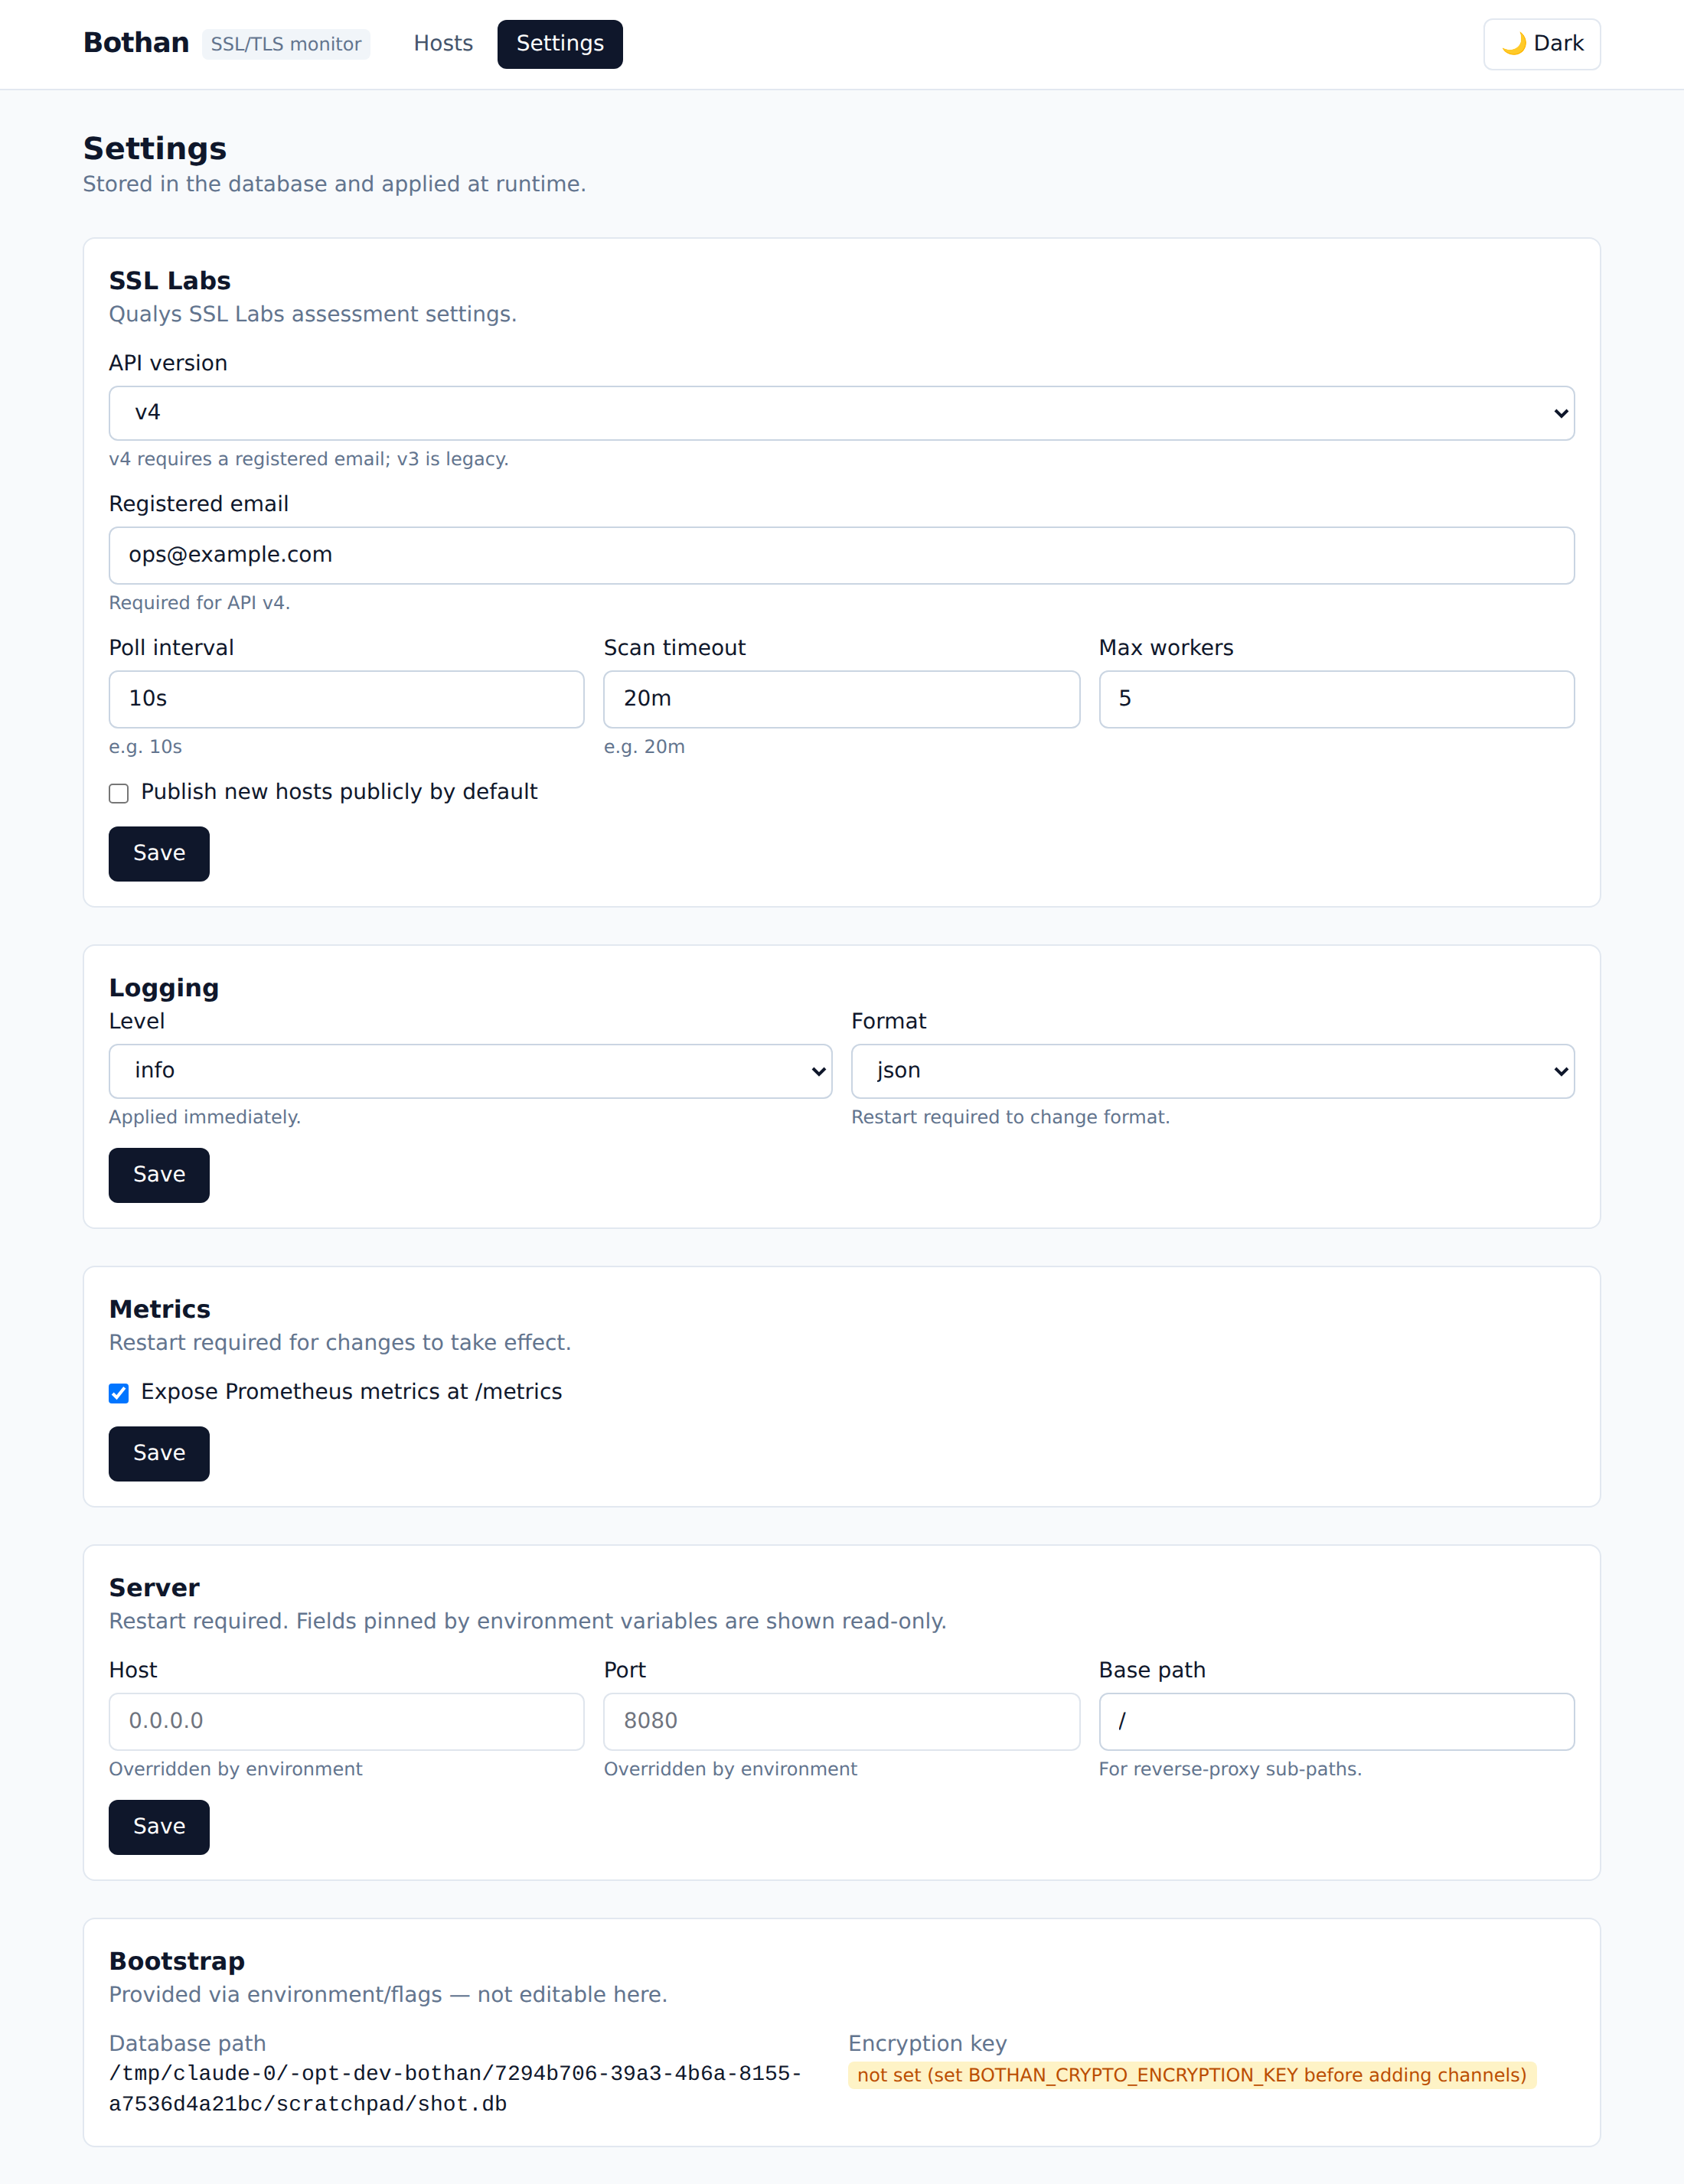
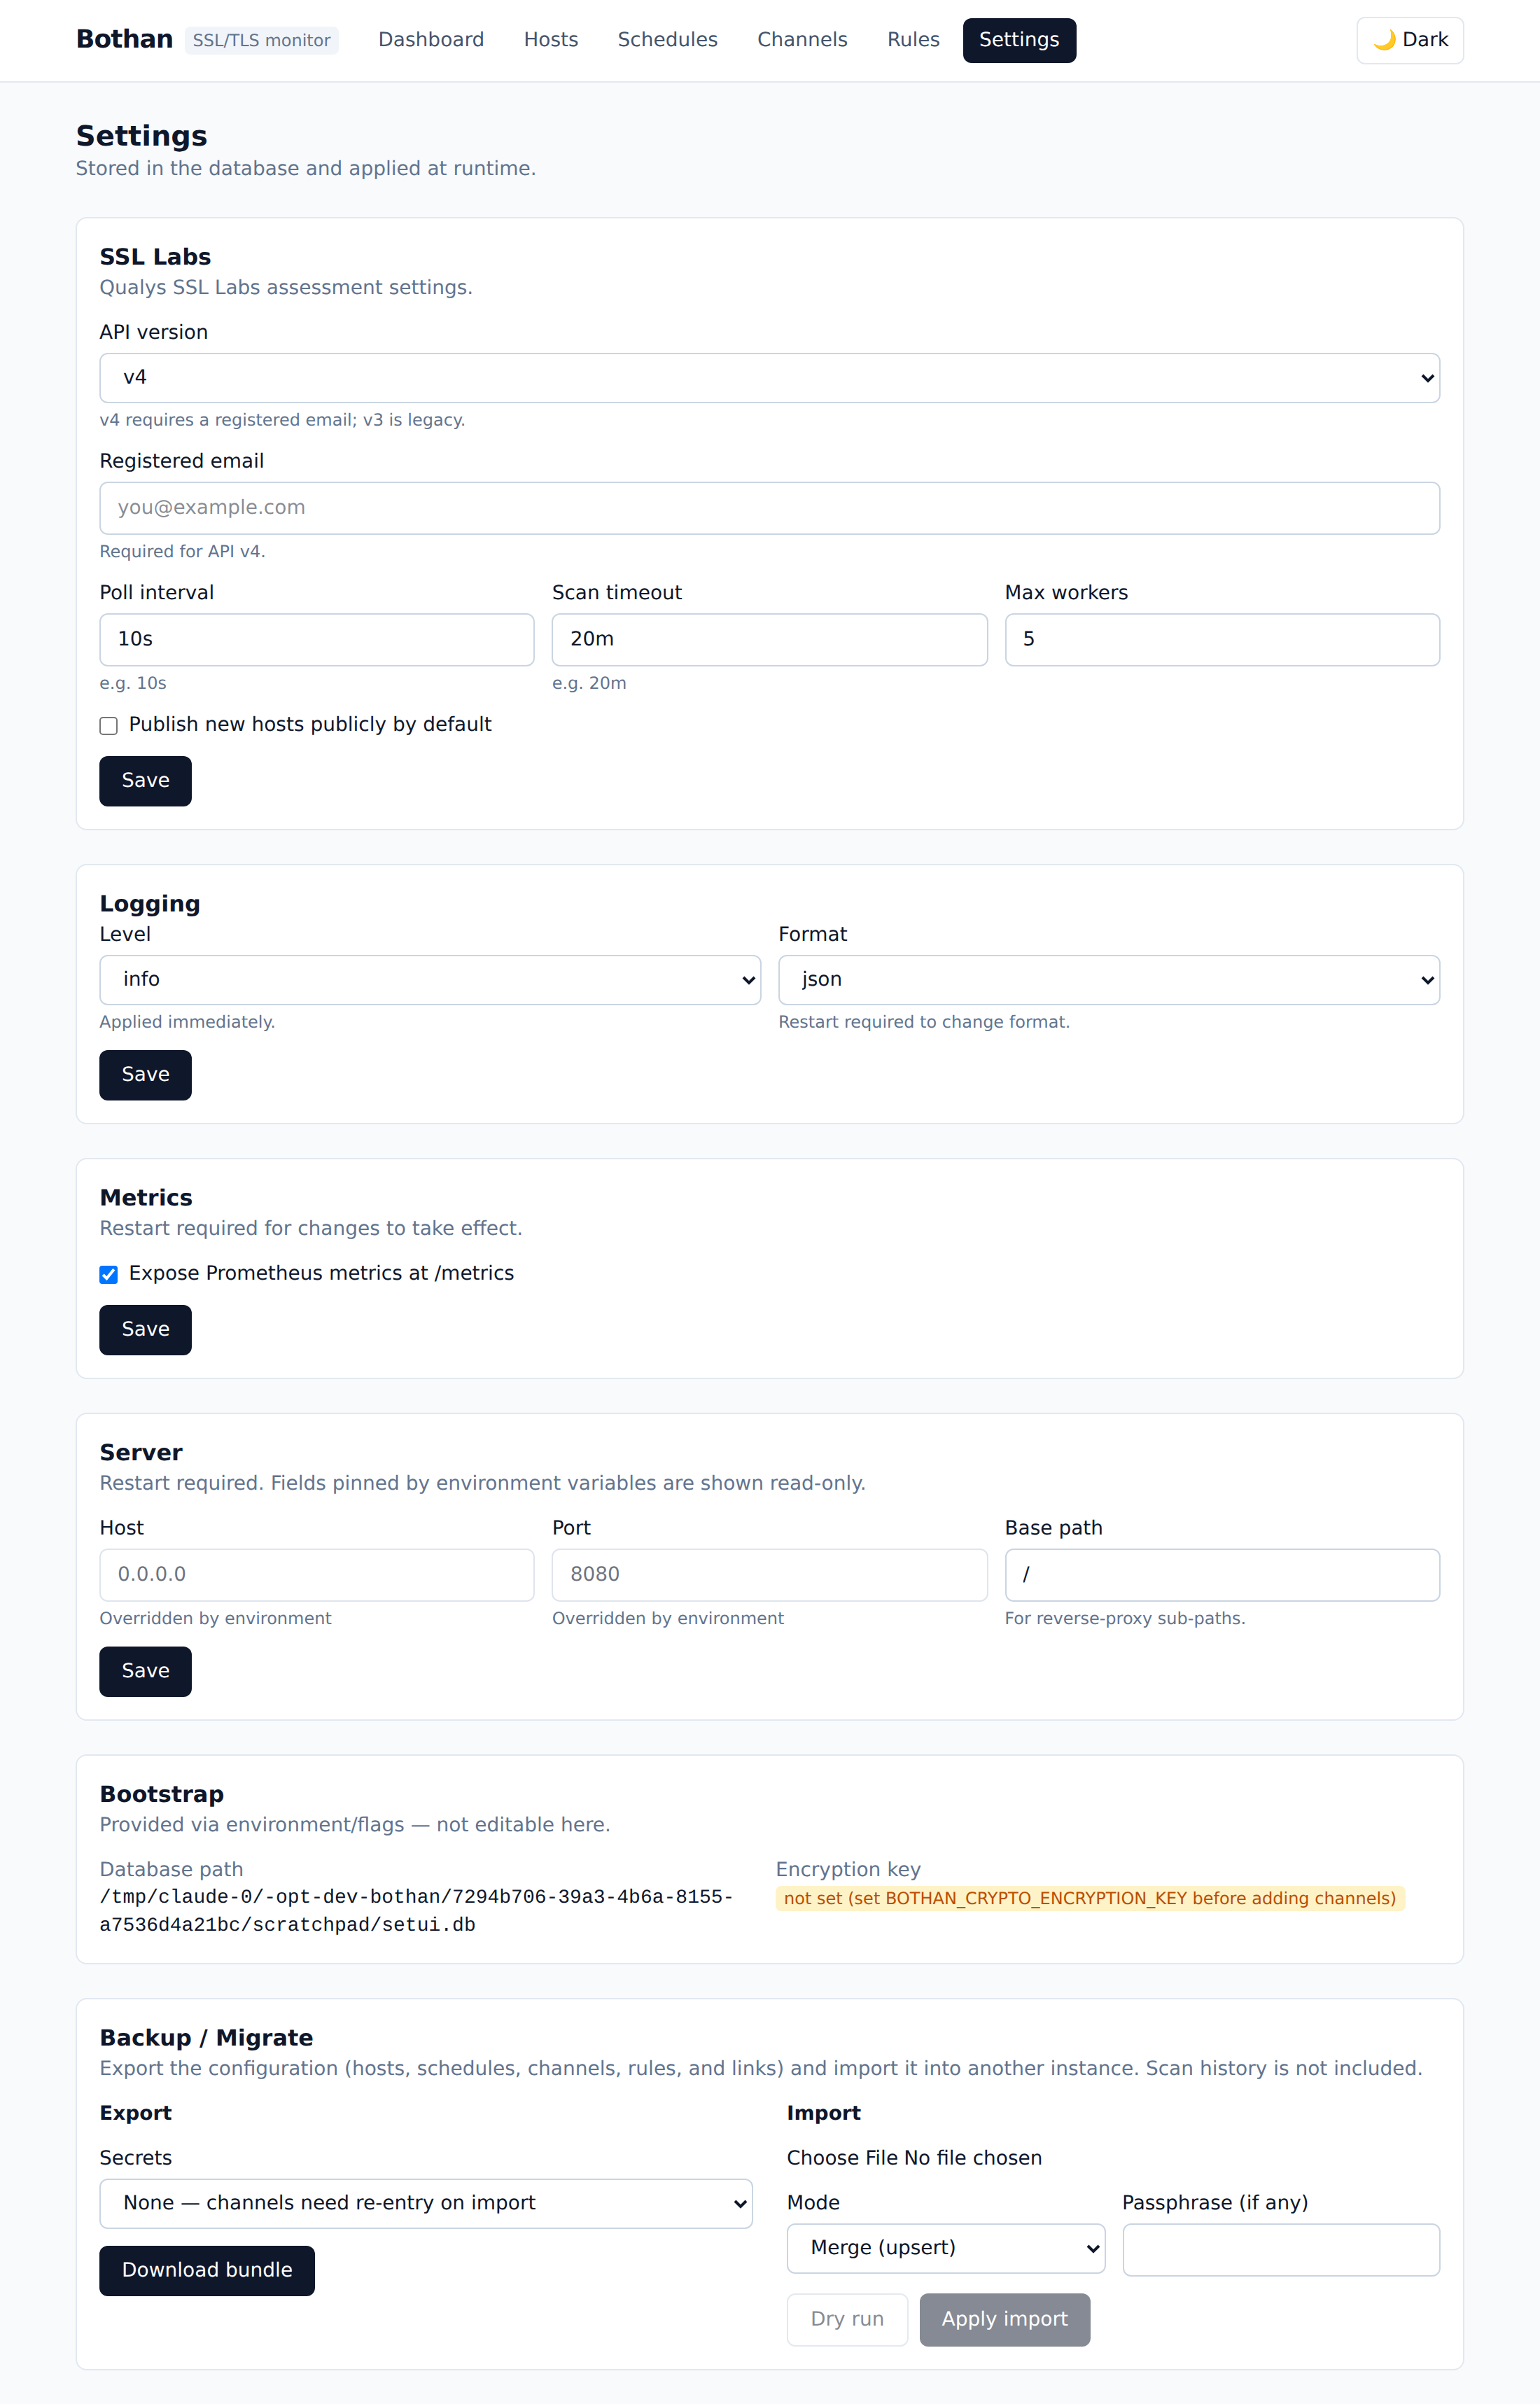
feat(web): Backup / Migrate settings panel; docs
Settings gains a Backup/Migrate panel: export with a secrets selector (none /
instance_key / passphrase) that downloads the bundle, and import with file
upload, merge/replace mode, a dry-run preview of the change counts, and apply.
README documents the export/import API and secret modes.

diff --git a/web/src/components/BackupSection.tsx b/web/src/components/BackupSection.tsx
@@ -1,0 +1,188 @@
+import { useState } from "react";
+import { api, ApiError } from "../lib/api";
+import type { ImportResult } from "../types";
+
+const inputCls =
+  "w-full rounded-md border border-slate-300 bg-white px-3 py-2 text-sm outline-none focus:border-slate-500 dark:border-slate-700 dark:bg-slate-950";
+
+export default function BackupSection() {
+  return (
+    <section className="rounded-lg border border-slate-200 bg-white p-4 dark:border-slate-800 dark:bg-slate-900">
+      <h2 className="text-base font-semibold">Backup / Migrate</h2>
+      <p className="mb-3 text-sm text-slate-500 dark:text-slate-400">
+        Export the configuration (hosts, schedules, channels, rules, and links) and import it into
+        another instance. Scan history is not included.
+      </p>
+      <div className="grid gap-6 lg:grid-cols-2">
+        <ExportPanel />
+        <ImportPanel />
+      </div>
+    </section>
+  );
+}
+
+function ExportPanel() {
+  const [secret, setSecret] = useState("none");
+  const [passphrase, setPassphrase] = useState("");
+  const [busy, setBusy] = useState(false);
+  const [error, setError] = useState<string | null>(null);
+
+  async function download() {
+    setBusy(true);
+    setError(null);
+    try {
+      const data = await api.exportConfig(secret, passphrase || undefined);
+      const blob = new Blob([JSON.stringify(data, null, 2)], { type: "application/json" });
+      const url = URL.createObjectURL(blob);
+      const a = document.createElement("a");
+      a.href = url;
+      a.download = "bothan-config.json";
+      a.click();
+      URL.revokeObjectURL(url);
+    } catch (e) {
+      setError(e instanceof ApiError ? e.message : "export failed");
+    } finally {
+      setBusy(false);
+    }
+  }
+
+  return (
+    <div className="space-y-3">
+      <h3 className="text-sm font-semibold">Export</h3>
+      <label className="block">
+        <span className="mb-1 block text-sm font-medium">Secrets</span>
+        <select value={secret} onChange={(e) => setSecret(e.target.value)} className={inputCls}>
+          <option value="none">None — channels need re-entry on import</option>
+          <option value="instance_key">Include (same key) — portable with the same encryption key</option>
+          <option value="passphrase">Include (passphrase) — portable across different keys</option>
+        </select>
+      </label>
+      {secret === "passphrase" && (
+        <label className="block">
+          <span className="mb-1 block text-sm font-medium">Passphrase</span>
+          <input type="password" value={passphrase} onChange={(e) => setPassphrase(e.target.value)} className={inputCls} />
+        </label>
+      )}
+      {secret !== "none" && (
+        <p className="text-xs text-amber-600 dark:text-amber-400">
+          ⚠ This bundle contains channel credentials. Handle it securely.
+        </p>
+      )}
+      {error && <p className="text-sm text-red-600 dark:text-red-400">{error}</p>}
+      <button
+        type="button"
+        onClick={download}
+        disabled={busy || (secret === "passphrase" && !passphrase)}
+        className="rounded-md bg-slate-900 px-4 py-2 text-sm font-medium text-white hover:bg-slate-700 disabled:opacity-50 dark:bg-slate-100 dark:text-slate-900 dark:hover:bg-white"
+      >
+        {busy ? "Exporting…" : "Download bundle"}
+      </button>
+    </div>
+  );
+}
+
+function ImportPanel() {
+  const [bundleData, setBundleData] = useState<unknown | null>(null);
+  const [filename, setFilename] = useState("");
+  const [mode, setMode] = useState("merge");
+  const [passphrase, setPassphrase] = useState("");
+  const [preview, setPreview] = useState<ImportResult | null>(null);
+  const [busy, setBusy] = useState(false);
+  const [error, setError] = useState<string | null>(null);
+  const [done, setDone] = useState<string | null>(null);
+
+  async function onFile(e: React.ChangeEvent<HTMLInputElement>) {
+    const file = e.target.files?.[0];
+    if (!file) return;
+    setError(null);
+    setPreview(null);
+    setDone(null);
+    setFilename(file.name);
+    try {
+      setBundleData(JSON.parse(await file.text()));
+    } catch {
+      setError("invalid JSON file");
+      setBundleData(null);
+    }
+  }
+
+  async function run(dryRun: boolean) {
+    if (!bundleData) return;
+    setBusy(true);
+    setError(null);
+    setDone(null);
+    try {
+      const res = await api.importConfig(bundleData, { mode, dry_run: dryRun, passphrase: passphrase || undefined });
+      if (dryRun) {
+        setPreview(res);
+      } else {
+        setPreview(null);
+        setDone("Import applied.");
+      }
+    } catch (e) {
+      setError(e instanceof ApiError ? e.message : "import failed");
+    } finally {
+      setBusy(false);
+    }
+  }
+
+  return (
+    <div className="space-y-3">
+      <h3 className="text-sm font-semibold">Import</h3>
+      <input type="file" accept="application/json" onChange={onFile} className="block text-sm" />
+      {filename && <p className="text-xs text-slate-500 dark:text-slate-400">{filename}</p>}
+
+      <div className="grid grid-cols-2 gap-3">
+        <label className="block">
+          <span className="mb-1 block text-sm font-medium">Mode</span>
+          <select value={mode} onChange={(e) => setMode(e.target.value)} className={inputCls}>
+            <option value="merge">Merge (upsert)</option>
+            <option value="replace">Replace (wipe schedules/channels/rules)</option>
+          </select>
+        </label>
+        <label className="block">
+          <span className="mb-1 block text-sm font-medium">Passphrase (if any)</span>
+          <input type="password" value={passphrase} onChange={(e) => setPassphrase(e.target.value)} className={inputCls} />
+        </label>
+      </div>
+
+      {error && <p className="text-sm text-red-600 dark:text-red-400">{error}</p>}
+      {done && <p className="text-sm text-green-600 dark:text-green-400">{done}</p>}
+
+      {preview && (
+        <div className="rounded-md border border-slate-200 p-2 text-xs dark:border-slate-800">
+          <p className="mb-1 font-medium">Dry-run preview:</p>
+          <ul className="space-y-0.5 text-slate-600 dark:text-slate-300">
+            <li>Hosts: +{preview.report.hosts_created} / ~{preview.report.hosts_updated}</li>
+            <li>Schedules: +{preview.report.schedules_created} / ~{preview.report.schedules_updated}</li>
+            <li>Channels: +{preview.report.channels_created} / ~{preview.report.channels_updated} (needs credentials: {preview.report.channels_needing_credentials})</li>
+            <li>Rules: +{preview.report.rules_created} / ~{preview.report.rules_updated}</li>
+            <li>Links created: {preview.report.links_created}</li>
+            {preview.report.removed > 0 && <li className="text-amber-600 dark:text-amber-400">Removed (replace): {preview.report.removed}</li>}
+          </ul>
+        </div>
+      )}
+
+      <div className="flex gap-2">
+        <button
+          type="button"
+          onClick={() => run(true)}
+          disabled={busy || !bundleData}
+          className="rounded-md border border-slate-300 px-4 py-2 text-sm hover:bg-slate-100 disabled:opacity-50 dark:border-slate-700 dark:hover:bg-slate-800"
+        >
+          Dry run
+        </button>
+        <button
+          type="button"
+          onClick={() => {
+            if (confirm(`Apply import in ${mode} mode?`)) run(false);
+          }}
+          disabled={busy || !bundleData}
+          className="rounded-md bg-slate-900 px-4 py-2 text-sm font-medium text-white hover:bg-slate-700 disabled:opacity-50 dark:bg-slate-100 dark:text-slate-900 dark:hover:bg-white"
+        >
+          Apply import
+        </button>
+      </div>
+    </div>
+  );
+}

diff --git a/web/src/types.ts b/web/src/types.ts
@@ -42,6 +42,26 @@ export interface DashboardSummary {
   }[];
 }
 
+export interface ImportReport {
+  hosts_created: number;
+  hosts_updated: number;
+  schedules_created: number;
+  schedules_updated: number;
+  channels_created: number;
+  channels_updated: number;
+  rules_created: number;
+  rules_updated: number;
+  removed: number;
+  links_created: number;
+  channels_needing_credentials: number;
+}
+
+export interface ImportResult {
+  dry_run: boolean;
+  mode: string;
+  report: ImportReport;
+}
+
 export interface Channel {
   id: number;
   name: string;

diff --git a/web/src/lib/api.ts b/web/src/lib/api.ts
@@ -3,6 +3,7 @@ import type {
   DashboardSummary,
   Host,
   HostInput,
+  ImportResult,
   Rule,
   Scan,
   ScanDiff,
@@ -79,6 +80,19 @@ export const api = {
   deleteRule: (id: number) => req<void>("DELETE", `/rules/${id}`),
 
   dashboard: () => req<DashboardSummary>("GET", "/dashboard/summary"),
+
+  exportConfig: (secret_encryption: string, passphrase?: string) =>
+    secret_encryption === "none"
+      ? req<unknown>("GET", "/config/export")
+      : req<unknown>("POST", "/config/export", { secret_encryption, passphrase }),
+  importConfig: (
+    bundleData: unknown,
+    opts: { mode: string; dry_run: boolean; passphrase?: string },
+  ) => {
+    const q = new URLSearchParams({ mode: opts.mode, dry_run: String(opts.dry_run) });
+    if (opts.passphrase) q.set("passphrase", opts.passphrase);
+    return req<ImportResult>("POST", `/config/import?${q.toString()}`, bundleData);
+  },
 
   getSettings: () => req<Settings>("GET", "/settings"),
   updateSettings: (patch: SettingsPatch) => req<Settings>("PUT", "/settings", patch),

diff --git a/web/src/pages/SettingsPage.tsx b/web/src/pages/SettingsPage.tsx
@@ -1,5 +1,6 @@
 import { useEffect, useState } from "react";
 import { api, ApiError } from "../lib/api";
+import BackupSection from "../components/BackupSection";
 import type { Settings, SettingsPatch } from "../types";
 
 export default function SettingsPage() {
@@ -58,6 +59,7 @@ export default function SettingsPage() {
       <MetricsSection settings={settings} onSave={save} saving={saving} />
       <ServerSection settings={settings} onSave={save} saving={saving} />
       <BootstrapSection settings={settings} />
+      <BackupSection />
     </div>
   );
 }

diff --git a/README.md b/README.md
@@ -5,13 +5,13 @@ posture of your domains and websites using the [Qualys SSL Labs
 API](https://www.ssllabs.com/), tracks grade history, compares scans over time,
 and alerts you through multiple notification channels when something changes.
 
-> Status: early development. **Phases 1–7** are implemented — the single binary
+> Status: early development. **Phases 1–8** are implemented — the single binary
 > boots, shows a **dashboard**, manages monitored **hosts**, runs **SSL Labs
 > assessments**, **schedules** automatic scans via cron, sends **notifications**
 > (Shoutrrr, GreenAPI, WhatsApp) driven by a rules engine (credentials encrypted
-> at rest), and **compares** scans over time. It applies its database schema,
-> exposes Prometheus metrics, and embeds the React web UI. Export/import and auth
-> arrive in subsequent phases.
+> at rest), **compares** scans over time, and supports **config export/import**
+> for backup and migration. It applies its database schema, exposes Prometheus
+> metrics, and embeds the React web UI. Optional auth arrives next.
 
 ## What works today
 
@@ -149,6 +149,33 @@ Channel providers: `shoutrrr` (one URL covering Telegram/Slack/Discord/SMTP/…)
 `whatsapp_greenapi` (GreenAPI cloud), and `whatsapp_multidevice` (self-hosted
 go-whatsapp-web-multidevice). The encryption key is required once any channel
 exists — set `BOTHAN_CRYPTO_ENCRYPTION_KEY` and keep it stable.
+
+## Configuration export / import
+
+Back up your setup or migrate between instances via a versioned JSON bundle of
+hosts, schedules, channels, rules, and their links (referenced by natural key).
+**Scan history, the encryption key, session secret, users, and API tokens are
+never exported.**
+
+| Method | Path | Description |
+|---|---|---|
+| `GET` | `/api/v1/config/export` | Export without secrets (`secret_encryption=none`). |
+| `POST` | `/api/v1/config/export` | Export with secrets: body `{ "secret_encryption": "instance_key"｜"passphrase", "passphrase?" }`. |
+| `POST` | `/api/v1/config/import` | Import a bundle. Query: `mode=merge｜replace`, `dry_run=true｜false`, `passphrase?`. |
+
+Secret modes:
+- **`none`** (default): channels import **disabled** and flagged `needs_credentials`.
+- **`instance_key`**: carries the AES ciphertext as-is plus a non-reversible key
+  fingerprint; import verifies the destination key matches before applying. Use
+  for backups and same-owner migrations with a shared, env-provisioned key.
+- **`passphrase`**: re-encrypts channel secrets under an argon2id-derived key;
+  import re-encrypts them with the destination instance key. Use when the two
+  instances run different keys.
+
+Import is transactional and all-or-nothing. `merge` upserts by natural key;
+`replace` wipes schedules, channels, and rules first (hosts are upserted so
+**scan history is preserved**). `dry_run=true` validates and reports what would
+change without applying. Manage all of this from **Settings → Backup / Migrate**.
 
 ## SSL Labs API
 